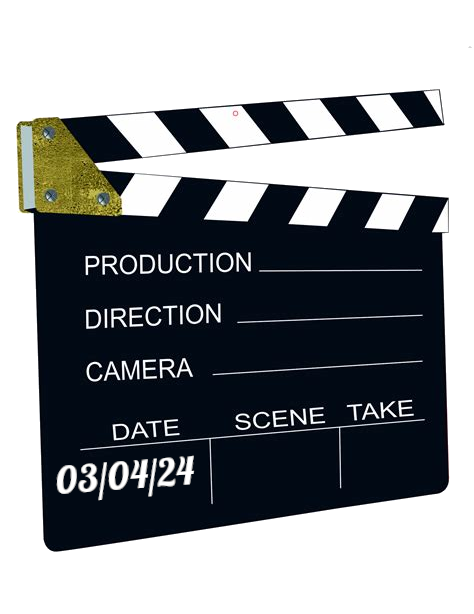
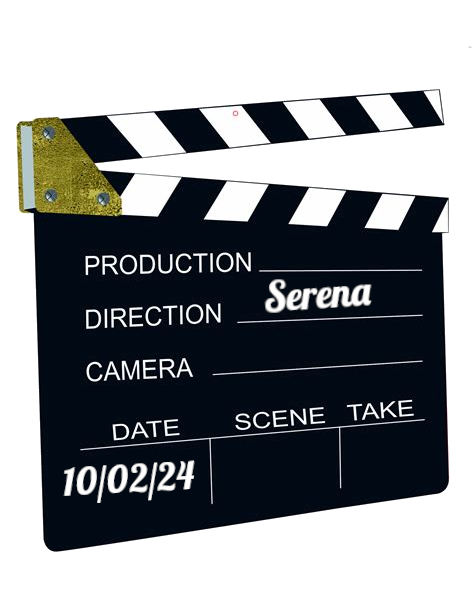
Food for Profit

Changed region(s): [[0.1181, 0.7427, 0.4135, 0.8355], [0.5612, 0.4332, 0.7975, 0.5261]]

diff --git a/index.html b/index.html
@@ -38,6 +38,15 @@
 
 <br /><br /><hr width="90%"><hr width="90%"><br /><br />
 
+<h1>Mercoled&igrave; 10 aprile 2024</h1>
+<h2>Alle 20:30 in Via Nizza, 72</h2>
+
+<img src="img/ciak.png" class="locandina"/>
+
+<h2>Selezionatrice: Serena<i></i></h2>
+
+<br /><br /><hr width="90%"><hr width="90%"><br /><br />
+
 <h1>Mercoled&igrave; 3 aprile 2024</h1>
 
 <p class="mtitle">
@@ -47,7 +56,7 @@
 
 <h2><i>In trasferta al Centro Sociale Brancaleone</i></h2>
 
-<br /><br /><hr width="90%"><hr width="90%"><br /><br />
+<br /><br /><hr width="90%"><br /><br />
 
 <h1>Mercoled&igrave; 27 marzo 2024</h1>
 <p class="mtitle">

diff --git a/movieslist.html b/movieslist.html
@@ -29,6 +29,17 @@ Rassegnamoci, Cineforum a Programma Variabile - Elenco Film
   </thead>
   <tbody>
     <tr>
+      <td>3-Apr-2024</td>
+      <td>Food for Profit</td>
+      <td>Jolly</td>
+      <td>-</td>
+      <td>2024</td>
+      <td>Pablo D'Ambrosi; Giulia Innocenzi</td>
+      <td>90</td>
+      <td>IT</td>
+      <td><a href="https://www.imdb.com/title/tt31315519" target="_blank">https://www.imdb.com/title/tt31315519</a></td>
+    </tr>
+    <tr>
       <td>27-Mar-2024</td>
       <td>I miserabili</td>
       <td>Vincenzo</td>
